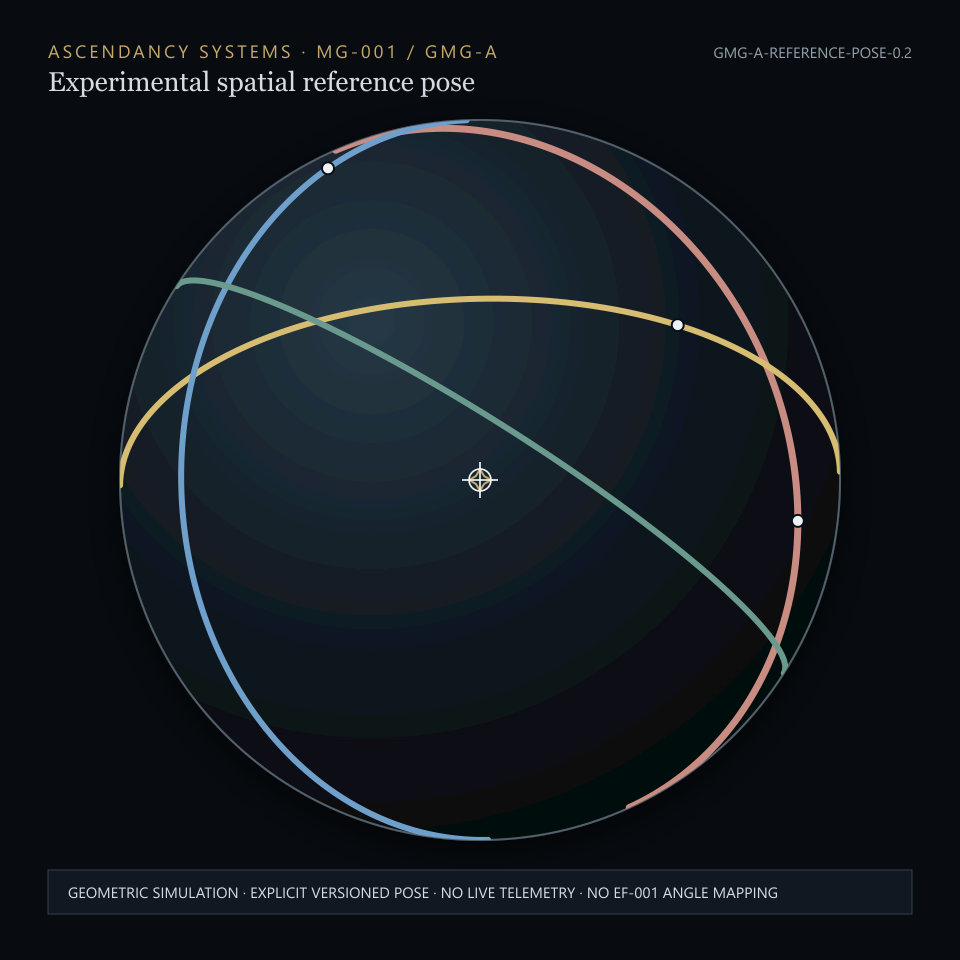
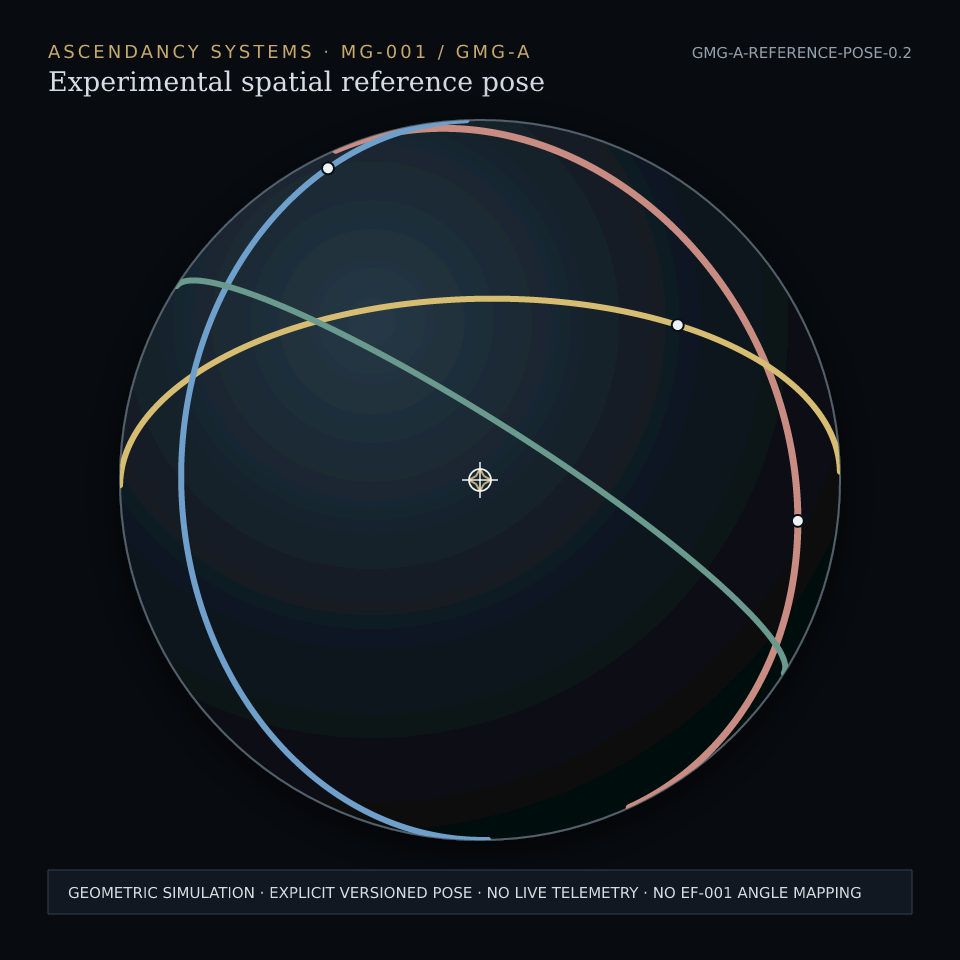
Verify the profile PNG against the reference pose before publication

Changed region(s): [[0.0625, 0.0312, 0.5625, 0.0938], [0.0625, 0.9062, 0.9062, 0.9375], [0.7188, 0.0312, 0.9375, 0.0625]]

diff --git a/README.md b/README.md
@@ -48,6 +48,7 @@ Working Draft v0.3 proposes a toroidal dial alongside the spatial assembly. It i
 | `specifications/` | Spatial v0.2 and dual-instrument v0.3 working drafts |
 | [Artifact provenance](./docs/artifact-provenance.md) | Recovery status for the original v0.1 artifacts |
 | `tests/` | Geometry, occlusion, marker, and consistency tests |
+| [Reference-plane snapshots](./snapshots/reference-plane-crossing/) | The [observer-pitch test](./tests/reference-plane-transition.test.mjs) explains why the visible arc changes when the observer crosses the plane. |
 
 ## Run locally
 
@@ -57,14 +58,20 @@ The demonstrator has no runtime dependencies. Serve the repository over HTTP, th
 python -m http.server 8000
 ```
 
-Run the dependency-free geometry tests and regenerate the SVG:
+Run the dependency-free geometry tests with `npm test`. The desktop and mobile layout snapshots can be refreshed with `node scripts/visual-smoke.cjs` when Playwright and Chromium are available.
+
+## Updating the reference pose
+
+Edit the [versioned pose](./config/gmg-a-reference-pose-v0.2.json). The browser reads it directly. The static renderer uses the same geometry to produce the SVG, and the [organization profile](https://github.com/Ascendancy-Systems) displays a PNG rendered from that SVG.
+
+From the repository root, install the locked development tools and regenerate both images.
 
 ```text
-npm test
-npm run render
+npm ci --ignore-scripts
+npm run render:pose
 ```
 
-The SVG is the canonical static projection. To refresh the checked-in PNG, run `node scripts/rasterize-static.cjs` with `sharp` available. The snapshots in `snapshots/` document the desktop and mobile layout. Refresh them with `node scripts/visual-smoke.cjs` with Playwright and Chromium available.
+Review the viewer and the PNG side by side. Stage the pose and both reference images together, then run `npm run check`. Pull requests and Pages deployments run the same check. It regenerates the SVG and checks the PNG byte for byte using the locked renderer and fonts.
 
 GitHub Pages publishes only the browser entry point, its JavaScript, and its pose file. The repository carries the specifications, archived context, tests, and generated assets.
 

diff --git a/docs/artifact-provenance.md b/docs/artifact-provenance.md
@@ -8,6 +8,8 @@ The original design conversation, **Mapping Technology Architecture**, records t
 
 The available conversation record exposed sandbox links without downloadable attachments. The original files are pending recovery.
 
+The [preserved MG-001 v0.1 gauge artwork](https://github.com/Ascendancy-Systems/.github/blob/main/assets/gauges/Gauges.md) consists of an SVG template and a mobile PNG. The recovery record below concerns the GMG-A prototype, specification, and archive.
+
 Accordingly:
 
 - This repository does **not** contain reconstructed files under those names.
